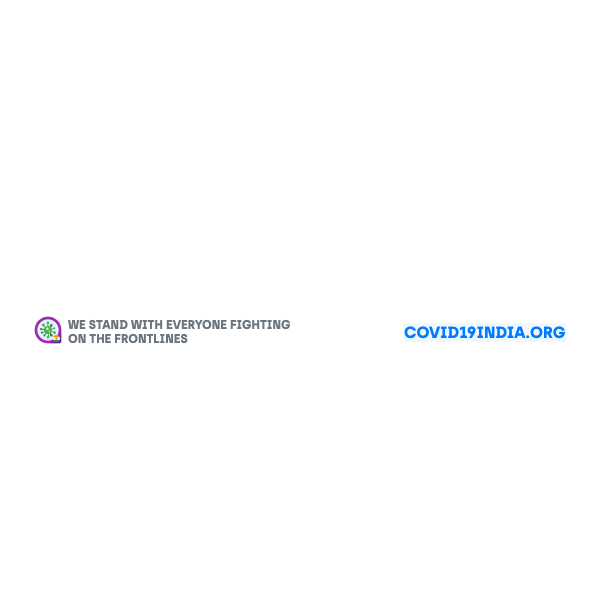
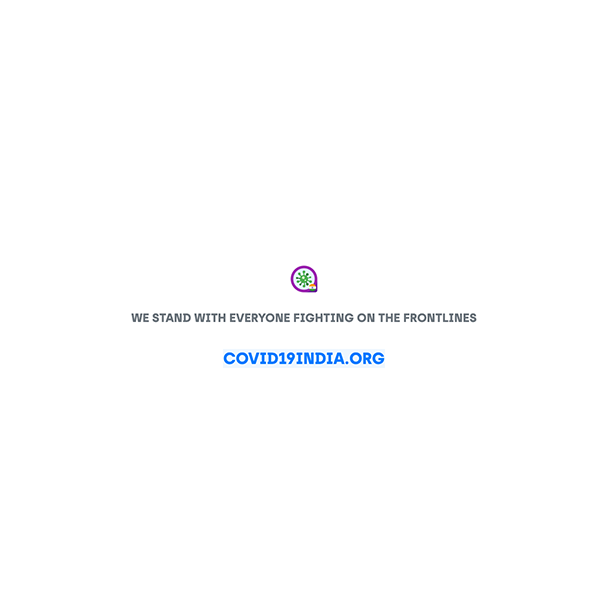
Updated thumbnail.

Changed region(s): [[0.06, 0.42, 0.96, 0.63]]

diff --git a/public/index.html b/public/index.html
@@ -36,14 +36,14 @@
 
     <!-- Open Graph / Facebook -->
     <meta property="og:type" content="website">
-    <meta property="og:url" content="https://www.statista.com/chart/20978/coronavirus-cases-us-map/">
+    <meta property="og:url" content="https://www.covid19india.org">
     <meta property="og:title" content="COVID-19 Tracker | India">
     <meta property="og:description" content="Tracking the coronavirus cases in India during the outbreak of the disease in 2020.">
     <meta property="og:image" content="/thumbnail.png">
 
     <!-- Twitter -->
     <meta property="twitter:card" content="summary_large_image">
-    <meta property="twitter:url" content="https://www.statista.com/chart/20978/coronavirus-cases-us-map/">
+    <meta property="twitter:url" content="https://www.covid19india.org">
     <meta property="twitter:title" content="COVID-19 Tracker | India">
     <meta property="twitter:description" content="Tracking the coronavirus cases in India during the outbreak of the disease in 2020.">
     <meta property="twitter:image" content="/thumbnail.png">

diff --git a/server/app.js b/server/app.js
@@ -14,10 +14,10 @@ require('dotenv').config();
 const indexRouter = require('./routes/index');
 const statesRouter = require('./routes/states');
 
-client = redis.createClient();
+/* client = redis.createClient();
 client.on('error', (err) => {
   console.log('Error ' + err);
-});
+});*/
 
 MongoDB = null;
 const uri = `mongodb+srv://${process.env.DB_NAME}:${process.env.DB_PASSWORD}@${process.env.DB_NAME}-h6o7s.gcp.mongodb.net/test?retryWrites=true&w=majority&replicaSet=rs`;

diff --git a/server/routes/index.js b/server/routes/index.js
@@ -8,7 +8,7 @@ router.get('/', function(req, res, next) {
   res.render('index', {title: 'Express'});
 });
 
-router.get('/update_screenshot', (req, res, next) => {
+router.get('/summarize', (req, res, next) => {
   (async () => {
     const browser = await puppeteer.launch();
     const page = await browser.newPage();
